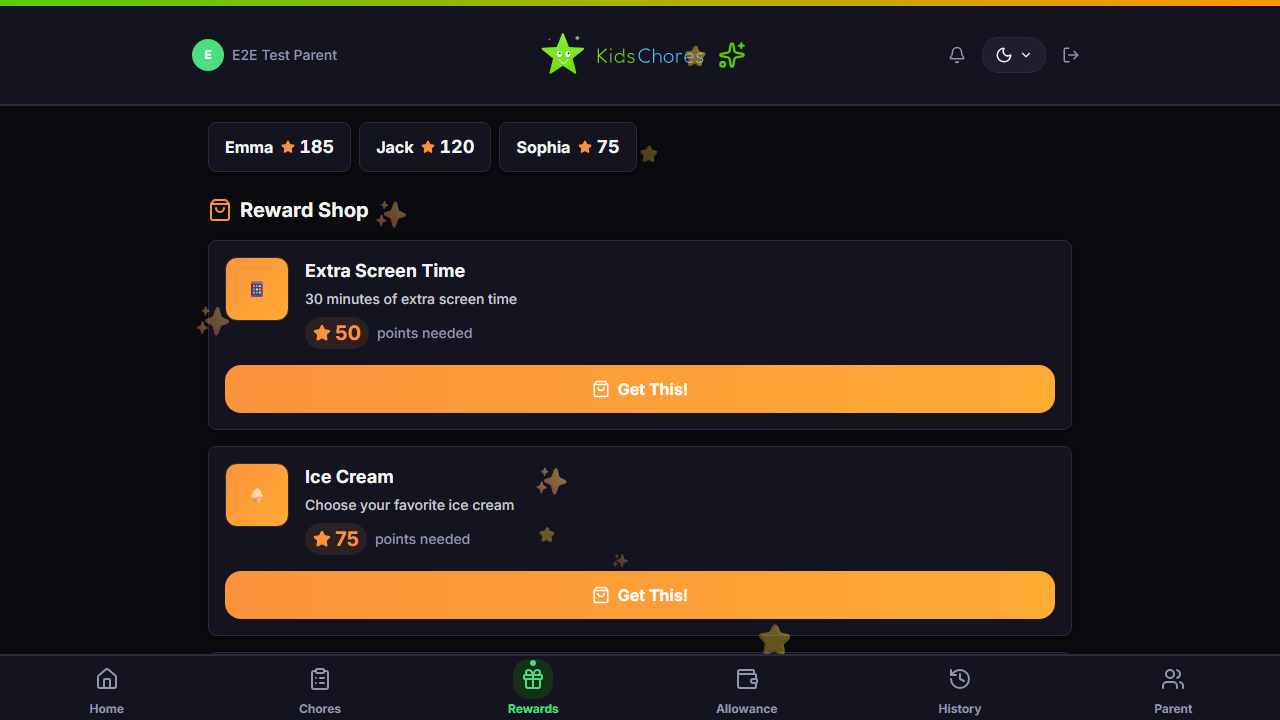
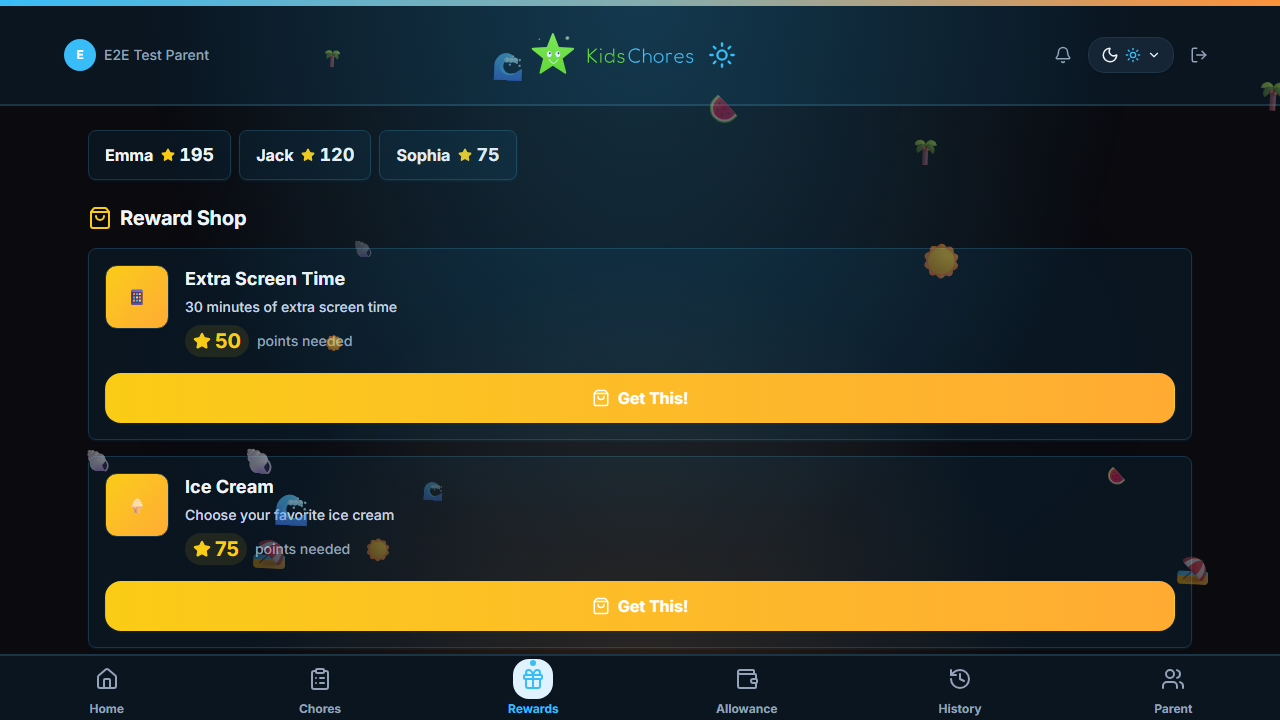
docs: catch README/SECURITY/.env.example/CONTRIBUTING up to 0.9.0 + release checklist + CI version gate
The 0.8.0->0.9.0 arc bumped VERSION/CHANGELOG each release while README,
SECURITY.md, .env.example, and screenshots silently froze at 0.8.0 - no
checklist enumerated them. This PR:

- README: v0.9.0 badge + CI badge, badges/challenges/avatar features,
  corrected tech stack (python:3.13-slim was mislabeled 3.14; nginx ->
  nginx-unprivileged:1.31 on 8080), compose snippet 3103:8080, env table
  (+FORWARDED_ALLOW_IPS/SENTRY_DSN/LOG_FORMAT/VITE_SENTRY_DSN, refresh 14d),
  API-docs section (docs were never reachable via /api/docs through nginx -
  they mount at /docs on the backend only), architecture tree, credits.
- SECURITY.md: 0.9.x supported; PyJWT/proxy-trust/unprivileged-nginx measures.
- .env.example: observability + proxy-trust block.
- CONTRIBUTING: backend pytest suite + CI, removed stale frontend/e2e note,
  synced structure, links docs/RELEASE.md.
- NEW docs/RELEASE.md: canonical release checklist (version surfaces, content
  surfaces incl. screenshots, ship, deploy incl. the :3104 test instance).
- NEW scripts/check-version-consistency.sh wired into the backend CI job:
  VERSION == package.json == main.py == README badge == README bottom ==
  SECURITY.md minor. Negative-tested (broken surface -> exit 1).
- Screenshots: 12 key pages recaptured at 0.9.0 against the test instance
  (new card design, Emma's earned badges, Point Sprint challenge bar);
  seed now approves a chore + creates a challenge; ApiHelpers.createChallenge.

diff --git a/e2e/screenshots.spec.ts b/e2e/screenshots.spec.ts
@@ -68,6 +68,11 @@ async function seedData(api: ApiHelpers) {
     shared_chore: false, recurring_frequency: 'weekly', category_id: outdoor.id,
   });
 
+  // Approve one chore for Emma so gamification renders in screenshots
+  // (first_chore badge on her Home card; possibly early_bird too)
+  await api.claimChore(makeBed.id, emma.id);
+  await api.approveChore(makeBed.id, 'Mom');
+
   // Create some claims for approval queue
   await api.claimChore(cleanRoom.id, emma.id);
   await api.claimChore(doHomework.id, jack.id);
@@ -89,6 +94,16 @@ async function seedData(api: ApiHelpers) {
   await api.createReward({
     name: 'New Toy', description: 'Pick a small toy (up to $10)',
     icon: '\u{1F9F8}', cost: 200, eligible_kids: [], requires_approval: true,
+  });
+
+  // Active challenge — renders progress bars on the Chores page screenshots
+  const now = new Date();
+  const weekOut = new Date(now.getTime() + 7 * 24 * 3600 * 1000);
+  await api.createChallenge({
+    name: 'Point Sprint', description: 'Earn 100 points this week', icon: 'target',
+    target_type: 'points_earned', target_value: 100,
+    start_date: now.toISOString(), end_date: weekOut.toISOString(),
+    bonus_points: 50,
   });
 
   // Create parent

diff --git a/e2e/fixtures/api-helpers.ts b/e2e/fixtures/api-helpers.ts
@@ -224,6 +224,19 @@ export class ApiHelpers {
 
   // ============== Categories API ==============
 
+  async createChallenge(data: {
+    name: string; description?: string; icon?: string;
+    target_type: 'chore_count' | 'points_earned'; target_value: number;
+    start_date: string; end_date: string; kid_ids?: string[];
+    badge_id?: string; bonus_points?: number;
+  }): Promise<any> {
+    const response = await this.apiContext.post('/api/challenges', { data });
+    if (!response.ok()) {
+      throw new Error(`Failed to create challenge: ${await response.text()}`);
+    }
+    return response.json();
+  }
+
   async createCategory(data: { name: string; icon: string; color: string; sort_order?: number }): Promise<any> {
     const response = await this.apiContext.post('/api/categories', { data });
     if (!response.ok()) {

diff --git a/README.md b/README.md
@@ -6,7 +6,8 @@
 </p>
 
 <p align="center">
-  <a href="https://github.com/misterberns/kidschores/releases"><img src="https://img.shields.io/badge/Version-v0.8.0-green?style=flat-square" alt="Version"></a>
+  <a href="https://github.com/misterberns/kidschores/releases"><img src="https://img.shields.io/badge/Version-v0.9.0-green?style=flat-square" alt="Version"></a>
+  <a href="https://github.com/misterberns/kidschores/actions/workflows/ci.yml"><img src="https://github.com/misterberns/kidschores/actions/workflows/ci.yml/badge.svg" alt="CI"></a>
   <img src="https://img.shields.io/badge/Status-Active-brightgreen?style=flat-square" alt="Status">
   <img src="https://img.shields.io/badge/License-GPL%203.0-blue?style=flat-square" alt="License">
 </p>
@@ -35,13 +36,16 @@
 - **Rewards** - Define rewards with point costs for kids to redeem
 - **Parent Approval** - Parents approve chore completions and reward redemptions
 - **Points System** - Flexible points with multipliers and adjustments
+- **Badges & Achievements** - Automatic awards (streaks, milestones, early bird, first reward) with full-screen unlock celebrations, push notifications, and rarity-ringed badge art; parents can create custom badges
+- **Challenges** - Time-boxed goals (chore count or points earned) with live progress bars, bonus-point and badge rewards
+- **Kid Avatars** - Per-kid emoji + color picker
 - **Google SSO** - Parents and kids sign in with Google (optional)
 - **Email Notifications** - Parents notified on chore claims and reward redemptions
 - **Seasonal Themes** - Halloween, Christmas, Easter, Summer, and default themes
 - **Mobile-Responsive** - Works on phones, tablets, and desktops
-- **Security** - JWT auth on all endpoints, rate limiting, bcrypt hashing, CORS restriction
+- **Security** - JWT auth (PyJWT) on all endpoints, rate limiting, bcrypt hashing, CORS restriction, unprivileged nginx, locked-down proxy trust
 - **Error Handling** - React error boundaries, global error handler, auto-toast notifications
-- **E2E Testing** - Playwright test suite (100+ tests: API, UI, accessibility, workflows)
+- **CI-Gated Testing** - 34 backend pytest tests + ~220 Playwright e2e tests (API, UI, accessibility, workflows) run on every push; Dependabot keeps dependencies fresh
 
 ## Screenshots
 
@@ -86,7 +90,7 @@
 
 - **Backend**: FastAPI + SQLAlchemy + SQLite
 - **Frontend**: React 19 + Vite + Tailwind CSS v4
-- **Deployment**: Docker multi-stage builds (backend: python:3.14-slim, frontend: nginx:1.27-alpine)
+- **Deployment**: Docker multi-stage builds (backend: `python:3.13-slim`, frontend: `nginxinc/nginx-unprivileged:1.31-alpine` — both containers run as non-root)
 
 ## Quick Start
 
@@ -107,7 +111,7 @@
 
 3. Access at `http://localhost:3103`
 
-The frontend (nginx) automatically proxies `/api` requests to the backend. The backend runs as a non-root `kidschores` user. Data is persisted in `./data/` (SQLite database).
+The frontend (unprivileged nginx, listening on container port 8080) automatically proxies `/api` requests to the backend. Both containers run as non-root users. Data is persisted in `./data/` (SQLite database).
 
 ```bash
 docker compose down          # Stop (data persists in ./data/)
@@ -123,7 +127,7 @@ services:
     build: ./frontend
     container_name: kidschores-ui
     ports:
-      - "3103:80"
+      - "3103:8080"   # unprivileged nginx listens on 8080 inside the container
     depends_on:
       - backend
     restart: unless-stopped
@@ -175,7 +179,10 @@ See [CONTRIBUTING.md](CONTRIBUTING.md) for detailed development setup instructio
 | `APP_BASE_URL` | No | `http://localhost:3103` | Base URL for email links (password reset, invitations) |
 | `TZ` | No | `America/Chicago` | Timezone |
 | `ACCESS_TOKEN_EXPIRE_MINUTES` | No | `1440` | JWT access token TTL (24h) |
-| `REFRESH_TOKEN_EXPIRE_DAYS` | No | `30` | JWT refresh token TTL |
+| `REFRESH_TOKEN_EXPIRE_DAYS` | No | `14` | JWT refresh token TTL |
+| `FORWARDED_ALLOW_IPS` | No | `127.0.0.1` | IPs/CIDRs uvicorn trusts for `X-Forwarded-*` headers (set to your Docker network ranges when behind a proxy; fail-closed by default) |
+| `SENTRY_DSN` | No | — | Enables Sentry error reporting (dormant when unset) |
+| `LOG_FORMAT` | No | — | Set to `json` for structured log lines |
 | `GOOGLE_CLIENT_ID` | No | — | Google OAuth client ID |
 | `GOOGLE_CLIENT_SECRET` | No | — | Google OAuth client secret |
 | `GOOGLE_REDIRECT_URI` | No | `http://localhost:3103/auth/google/callback` | OAuth redirect URI |
@@ -193,6 +200,7 @@ See [CONTRIBUTING.md](CONTRIBUTING.md) for detailed development setup instructio
 |----------|----------|------|-------------|
 | `VITE_GOOGLE_CLIENT_ID` | No | `frontend/.env.production` | Google OAuth client ID (must match backend `GOOGLE_CLIENT_ID`) |
 | `VITE_GOOGLE_REDIRECT_ORIGIN` | No | `frontend/.env.production` | Base URL for OAuth redirect (e.g., `http://localhost:3103`) |
+| `VITE_SENTRY_DSN` | No | `frontend/.env.production` | Enables frontend Sentry error reporting (the SDK is only loaded when set) |
 
 > **Important:** Frontend vars are baked into the image at build time by Vite. They must be set in `frontend/.env.production` before building — they are NOT read from the root `.env` file.
 
@@ -234,28 +242,33 @@ docker compose up -d --build
 
 ## API Documentation
 
-Once running, access the interactive API docs at:
-- Swagger UI: `http://localhost:3103/api/docs`
-- ReDoc: `http://localhost:3103/api/redoc`
+Interactive API docs are served by the backend directly (they are not proxied
+through the Docker frontend). With the backend running locally
+(`uvicorn app.main:app --reload --port 8000`):
+- Swagger UI: `http://localhost:8000/docs`
+- ReDoc: `http://localhost:8000/redoc`
 
 ## Architecture
 
 ```
 kidschores/
 ├── backend/                 # FastAPI application
-│   ├── Dockerfile           # Multi-stage: python:3.13-slim
+│   ├── Dockerfile           # Multi-stage: python:3.13-slim (non-root)
 │   ├── .dockerignore
 │   ├── requirements.txt
+│   ├── requirements-dev.txt # pytest + dev tooling
+│   ├── tests/               # Backend pytest suite (authz, tokens, points, gamification)
 │   └── app/
 │       ├── main.py          # FastAPI entry point
 │       ├── config.py        # Settings (env vars via pydantic-settings)
 │       ├── database.py      # SQLAlchemy setup
 │       ├── models.py        # Database models
 │       ├── schemas.py       # Pydantic schemas
-│       ├── routers/         # API endpoints (auth, kids, chores, rewards)
-│       └── services/        # Business logic (email, etc.)
+│       ├── observability.py # Request-ID middleware, JSON logging, optional Sentry
+│       ├── routers/         # API endpoints (auth, kids, chores, rewards, badges, challenges, ...)
+│       └── services/        # Business logic (email, gamification, push, etc.)
 ├── frontend/                # React application
-│   ├── Dockerfile           # Multi-stage: node:22-alpine → nginx:1.27-alpine
+│   ├── Dockerfile           # Multi-stage: node:26-alpine → nginx-unprivileged:1.31-alpine (:8080)
 │   ├── .dockerignore
 │   ├── nginx.conf           # Nginx config (serves static + proxies /api)
 │   ├── package.json
@@ -263,7 +276,7 @@ kidschores/
 │       ├── api/             # API client (axios)
 │       ├── auth/            # Auth context + Google callback
 │       ├── pages/           # Page components
-│       ├── components/      # Shared components
+│       ├── components/      # Shared components (ui/ primitives, gamification/, celebrations/)
 │       └── theme/           # Colors, seasonal themes
 ├── e2e/                     # Playwright end-to-end tests
 │   ├── api/                 # API tests (CRUD, security)
@@ -271,7 +284,11 @@ kidschores/
 │   ├── fixtures/            # Shared test fixtures and auth helpers
 │   └── pages/               # Page Object Models
 ├── scripts/
-│   └── kc-build.sh          # Build + push to container registry
+│   ├── kc-build.sh          # Build + push to container registry
+│   └── check-version-consistency.sh  # CI gate: all version surfaces must match
+├── .github/
+│   ├── workflows/ci.yml     # CI: frontend checks, backend pytest, full e2e stack
+│   └── dependabot.yml       # Weekly dependency updates (npm, pip, actions, docker)
 ├── docker-compose.yml       # Standalone deployment (builds locally)
 ├── .env.example             # Environment variable template
 ├── CHANGELOG.md             # Version history
@@ -295,8 +312,9 @@ The original KidsChores-HA is an excellent Home Assistant integration with:
 - Calendar integration and custom scheduling
 - Built-in user access control
 
-This standalone fork extracts the core chore/reward functionality into a
-self-contained web app that runs independently of Home Assistant.
+This standalone fork reimplements the core chore/reward functionality — and,
+as of v0.9.0, its own badges & challenges engine — as a self-contained web app
+that runs independently of Home Assistant.
 
 ## License
 
@@ -311,4 +329,4 @@ Contributions are welcome! See [CONTRIBUTING.md](CONTRIBUTING.md) for guidelines
 
 ## Version
 
-Current version: **0.8.0** (see [CHANGELOG.md](CHANGELOG.md) for history)
+Current version: **0.9.0** (see [CHANGELOG.md](CHANGELOG.md) for history)

diff --git a/docs/RELEASE.md b/docs/RELEASE.md
@@ -1,0 +1,64 @@
+# Release Checklist
+
+The canonical checklist for cutting a KidsChores release. This exists because the
+0.8.0 → 0.9.0 arc bumped `VERSION`/`CHANGELOG` on every release while README,
+SECURITY.md, `.env.example`, and the screenshots silently froze at 0.8.0 —
+nothing enumerated them. Now something does.
+
+Version-surface consistency (items 1–5 below) is **CI-enforced** by
+`scripts/check-version-consistency.sh` (runs in the backend CI job) — a release
+PR that forgets one of them fails CI.
+
+## 1. Version surfaces (all must match — CI-enforced)
+
+- [ ] `VERSION` — the source of truth
+- [ ] `frontend/package.json` `"version"` (use `npm version <x.y.z> --no-git-tag-version`)
+- [ ] `backend/app/main.py` — `version="x.y.z"` in the `FastAPI(...)` init
+- [ ] `README.md` — version badge (`Version-vX.Y.Z-green`) **and** the bottom
+      "Current version: **X.Y.Z**" line
+- [ ] `SECURITY.md` — supported-versions table covers the current minor (on minor bumps)
+
+## 2. Content surfaces (judgment — update what the release changed)
+
+- [ ] `CHANGELOG.md` — new `[x.y.z] - YYYY-MM-DD` entry (every release)
+- [ ] `README.md` feature list / tech stack / env-var table / architecture tree —
+      if the release added features, env vars, routers, or changed Docker bases/ports
+- [ ] `.env.example` — if env vars were added/changed
+- [ ] `CONTRIBUTING.md` — if test/dev workflow or project structure changed
+- [ ] `ROADMAP.md` — strike shipped items, note deferrals
+- [ ] **Screenshots** — if the UI changed visibly, recapture the key pages:
+      ```bash
+      cd e2e && API_URL=http://192.168.87.35:3104 FRONTEND_URL=http://192.168.87.35:3104 \
+        npx playwright test -g "capture all screenshots" --project=screenshots
+      ```
+      (Run against the freshly-bumped test instance. The onboarding/login sets have
+      their own test: `-g "capture onboarding screenshots"`. `screenshots/` must
+      keep exactly 26 files — see CLAUDE.md.)
+
+## 3. Ship
+
+- [ ] Release PR (`release/vX.Y.Z` from `github/main`) → CI green → merge
+- [ ] Sync remotes: `git fetch github main && git merge --ff-only github/main && git push forgejo main`
+- [ ] Tag: `git tag -a vX.Y.Z -m "..." && git push github vX.Y.Z && git push forgejo vX.Y.Z`
+- [ ] GitHub release (`gh release create vX.Y.Z ...`)
+- [ ] Forgejo release (`POST /api/v1/repos/wakanda/kidschores-app/releases`)
+
+## 4. Deploy
+
+- [ ] Build images (`scripts/kc-build.sh`), `docker save` → `scp -O` → `docker load`
+      on the GT (registry pull is blocked by step-ca trust)
+- [ ] **Prod** (`/volume1/gt-stacks/kidschores/`): DB backup first
+      (in-container `VACUUM INTO`), compose `.bak`, bump image tags,
+      `docker compose -p kidschores-ui --env-file stack.env config --quiet` gate,
+      `up -d --force-recreate`; verify both hostnames 200 through Traefik +
+      running `app.version`
+- [ ] **Test instance** (`/volume1/gt-stacks/kidschores-test/`, `:3104`): same bump
+      (project `kidschores-test`) — it is the default local e2e target, don't let it drift
+- [ ] Homelab repo: sync `nas-bringup/stacks/kidschores*/` mirrors +
+      `portainer-stacks/kidschores-stack.yml`, write the CHANGE record
+
+## Backlog / known gaps
+
+- Onboarding + login screenshots last captured for v0.7.9 — recapture at the next
+  UI-heavy release (`-g "capture onboarding screenshots"`)
+- No PR template / no e2e README (low priority)

diff --git a/SECURITY.md b/SECURITY.md
@@ -4,8 +4,8 @@
 
 | Version | Supported |
 |---------|-----------|
-| 0.8.x   | Yes       |
-| < 0.8   | No        |
+| 0.9.x   | Yes       |
+| < 0.9   | No        |
 
 ## Reporting a Vulnerability
 
@@ -29,13 +29,14 @@ If you discover a security vulnerability, please report it responsibly:
 
 KidsChores implements the following security practices:
 
-- **Authentication**: JWT tokens with configurable expiry, bcrypt password hashing (12 rounds). The app **refuses to start** with a missing/placeholder/too-short `JWT_SECRET_KEY`.
+- **Authentication**: JWT tokens (PyJWT) with configurable expiry, bcrypt password hashing (12 rounds). The app **refuses to start** with a missing/placeholder/too-short `JWT_SECRET_KEY`. Google sign-in requires a verified email and a validated token audience.
 - **Authorization**: parent/kid role model — management actions require a parent account; kid accounts can only act on and read their own data (object-level ownership checks).
 - **API tokens**: hashed at rest, prefix-narrowed lookup, and **expiry is enforced** at authentication time.
 - **Rate limiting**: login attempts rate-limited **per account (email) and per IP**.
 - **CORS**: configurable allowed origins (no wildcard in production).
 - **Test endpoints**: the destructive `/api/test/*` reset endpoints are **fail-closed** — mounted only in explicit `development`/`test` environments and additionally require an authenticated admin.
-- **Non-root containers**: backend runs as an unprivileged user.
+- **Non-root containers**: backend runs as an unprivileged user; frontend uses the unprivileged nginx image (listens on 8080).
+- **Proxy trust**: uvicorn only honors `X-Forwarded-*` headers from `FORWARDED_ALLOW_IPS` (fail-closed to `127.0.0.1`).
 - **Security headers + CSP**: X-Frame-Options, X-Content-Type-Options, Referrer-Policy, Permissions-Policy, and a Content-Security-Policy.
 - **Push-notification ownership**: subscriptions are bound server-side to the caller (a kid cannot register as a parent subscription).
 - **Input validation**: Pydantic schemas for all API inputs; HTML-escaped email templates.

diff --git a/CONTRIBUTING.md b/CONTRIBUTING.md
@@ -45,6 +45,20 @@ Access at `http://localhost:3103`.
 
 ## Running Tests
 
+All three suites run automatically in CI (`.github/workflows/ci.yml`) on every
+push and PR: frontend checks (lint/typecheck/build/vitest), backend pytest, and
+the full e2e suite against a compose stack built on the runner.
+
+### Backend Tests (pytest)
+
+```bash
+cd backend
+pip install -r requirements.txt -r requirements-dev.txt
+python -m pytest tests/
+```
+
+Runs against an ephemeral SQLite database — no running stack needed.
+
 ### E2E Tests (Playwright)
 
 ```bash
@@ -69,9 +83,6 @@ with `ENVIRONMENT=development` (or `test`) — never point it at a production in
 cd frontend
 npm test          # vitest run
 ```
-
-(Note: `cd frontend && npx playwright test` runs a small separate Playwright e2e config
-under `frontend/e2e/`, not component/unit tests.)
 
 ## Code Style
 
@@ -98,19 +109,24 @@ under `frontend/e2e/`, not component/unit tests.)
 
 ```
 backend/app/
-  routers/     # API endpoint handlers
-  models.py    # SQLAlchemy database models
-  schemas.py   # Pydantic request/response schemas
-  config.py    # Environment variable configuration
-  services/    # Business logic (email, etc.)
+  routers/         # API endpoint handlers (incl. badges.py, challenges.py)
+  models.py        # SQLAlchemy database models
+  schemas.py       # Pydantic request/response schemas
+  config.py        # Environment variable configuration
+  observability.py # Request-ID middleware, JSON logging, optional Sentry
+  services/        # Business logic (email, gamification, push, etc.)
+backend/tests/     # Backend pytest suite
 
 frontend/src/
   api/         # Axios API client
   auth/        # Authentication context and components
   pages/       # Page-level components
-  components/  # Shared/reusable components
+  components/  # Shared/reusable components (ui/ primitives, gamification/, celebrations/)
   theme/       # Theme system (colors, seasonal themes)
 ```
+
+See [docs/RELEASE.md](docs/RELEASE.md) for the release checklist (version bumps,
+docs to update, screenshots, tagging).
 
 ## Reporting Bugs
 
